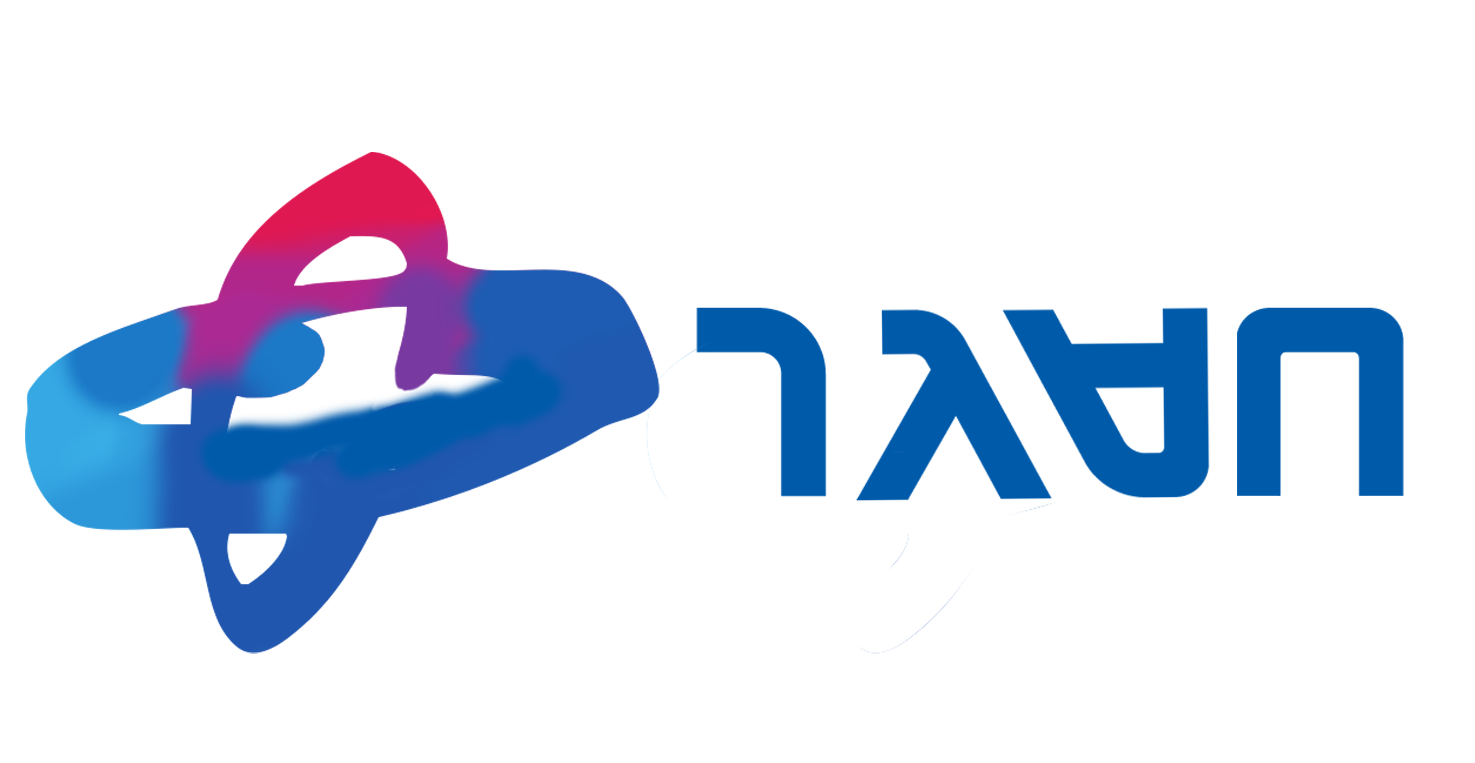
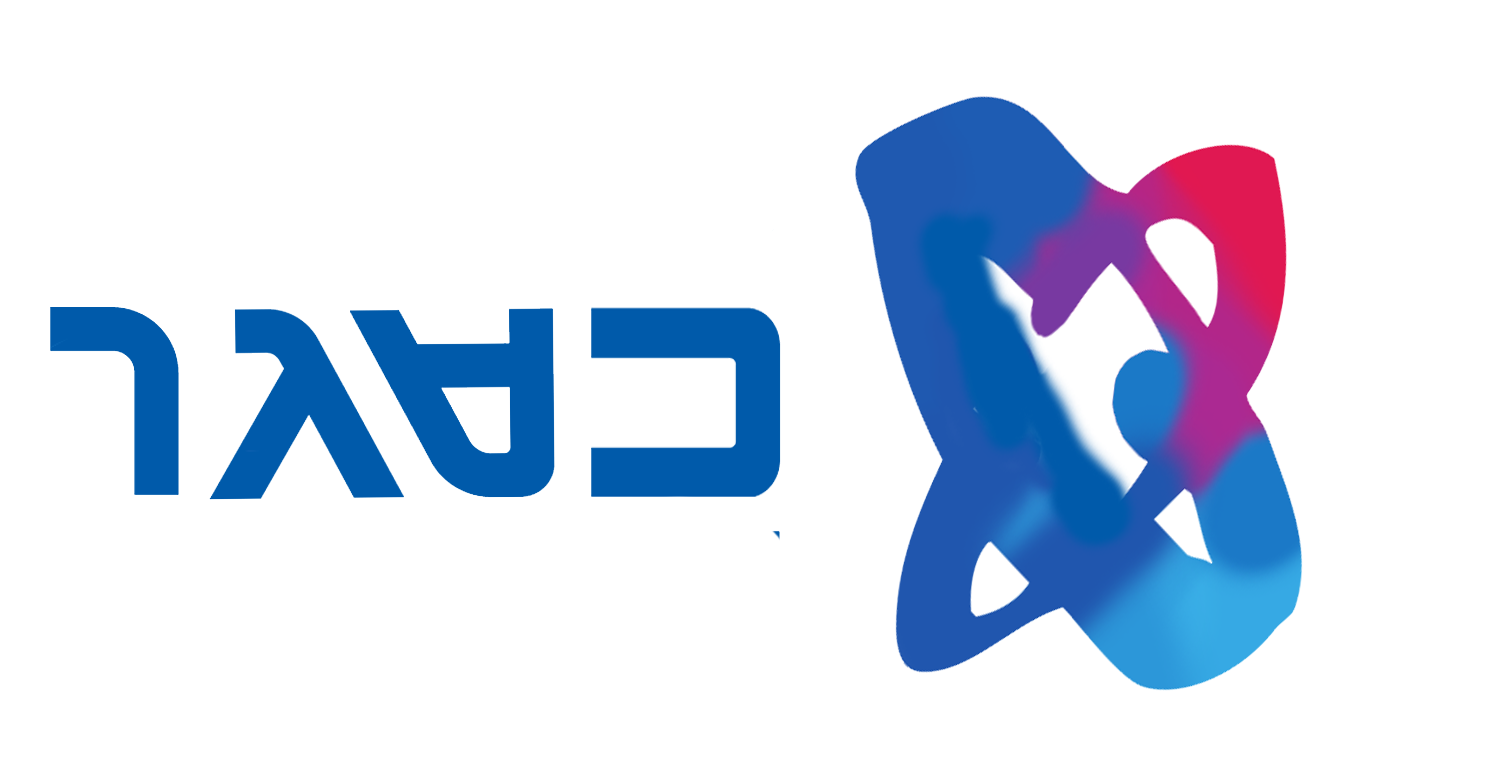
Add more animations

diff --git a/js/page/components/togglers/imageTransitioning.js b/js/page/components/togglers/imageTransitioning.js
@@ -2,12 +2,12 @@
 var _iterator = 0;
 const _imageSet = {};
 
-function showNextImageOf(image, imageId) {
-    if (_imageSet[imageId]?.length) {
-        if (++_iterator >= _imageSet[imageId].length)
+function showNextImageOf(image, imageSelector) {
+    if (_imageSet[imageSelector]?.length) {
+        if (++_iterator >= _imageSet[imageSelector].length)
             _iterator = 0;
 
-        image.src = `${(_imageSet[imageId])[_iterator]}`;
+        image.src = `${(_imageSet[imageSelector])[_iterator]}`;
     }
 }
 
@@ -15,10 +15,10 @@ function delay(ms) {
     return new Promise(resolve => setTimeout(resolve, ms));
 }
 
-export async function useImageTransition(imageId, imageNameArray = [], addedDelay, shouldReverse = true)
+export async function useImageTransition(imageSelector, imageNameArray = [], addedDelay, shouldReverse = true)
 {
-    _imageSet[imageId] = [...(imageNameArray ?? [])];
-    let image = document.getElementById(imageId);
+    _imageSet[imageSelector] = [...(imageNameArray ?? [])];
+    let image = document.querySelector(imageSelector);
     
     // Animation timing constants
     const TRANSITION_DURATION = 1500; // 0.3 seconds
@@ -28,7 +28,7 @@ export async function useImageTransition(imageId, imageNameArray = [], addedDela
     // Set transition properties
     image.style.transition = `all ${TRANSITION_DURATION}ms ease`;
     image.addEventListener('click', () => { 
-        showNextImageOf(image, imageId);
+        showNextImageOf(image, imageSelector);
     });
     
     while (true) {
@@ -56,6 +56,6 @@ export async function useImageTransition(imageId, imageNameArray = [], addedDela
             }
         }
 
-        showNextImageOf(image, imageId);
+        showNextImageOf(image, imageSelector);
     }
 }

diff --git a/js/page/enumerations/renderIndex.js b/js/page/enumerations/renderIndex.js
@@ -15,7 +15,7 @@ export function renderIndex()
         'education-lnk', 'tg-link', 'go-win-yourself', 'lnk-a-jobs', 'nav-rasp-lnk', 'news-lnk-rasp'
     ] );
     useToggleButton();
-    useImageTransition('central-big-image', [
+    useImageTransition('#central-big-image', [
         './img/slide-out/slide-out1.png', './img/slide-out/slide-out-2.jpg', './img/slide-out/slide-out-2-1.jpg',
         './img/slide-out/slide-out-3.jpg', './img/slide-out/slide-out-4.jpg', './img/slide-out/slide-out-5.jpg'], 0, true);
     useLanguageSwitchersOn('.language-dropdown__item');
@@ -30,10 +30,10 @@ export function renderIndex()
     useModalWithImageOn('.nav-lng-korean', './img/rofls/kim-chen-un.webp', 900);
     useModalWithImageOn('.nav-lng-japan', './img/rofls/kojima.jpg', 900);
     useModalWithImageOn('.nav-lng-china', './img/rofls/lgd-team.jpg', 900);
-    useImageTransition('logo-main-img', [
-        './img/paug.jpg', './img/paug2.png', './img/paug3.png',
+    useImageTransition('#logo-right-img', [
+        './img/gayshit-right.jpg', './img/paug2.png', './img/paug3.png',
         './img/paug4.png', './img/paug5.png', './img/paug1.png'], 3000, false);
-    useImageTransition('priority-img', null, 0, true);
+    useImageTransition('#priority-img', null, 0, true);
     useNavigationLnkRemapping();
 
     useModalWithContentOn('.lnk-a-jobs', '<p class="text-centered">Эй парень, в приемку не хочешь устроиться?</p><img class="modal-content__image" src="/img/content/application-comission.jpg"/>')

diff --git a/index.html b/index.html
@@ -41,7 +41,8 @@
         <div class="header-container">
             <div class="university-branding">
                 <div class="logo header-item">
-                    <img class="logo-img" id="logo-main-img" src="/img/paug.jpg"/>
+                    <img class="logo-img rotation__10-secs__360-degrees" id="logo-left-img" src="/img/gayshit-left.png"/>
+                    <img class="logo-img" id="logo-right-img" src="/img/gayshit-right.jpg"/>
                 </div>
                 <a href="#"><img class="logo-img header-item" id="priority-img" src="/img/priority.png"/></div></a>
             </div>

diff --git a/rasp/index.html b/rasp/index.html
@@ -12,6 +12,7 @@
         <div class="rasp-header-first-section">
             <div class="rasp-header-first-section__container">
                 <div class="logo header-item">
+                    <img class="logo-img rotation__10-secs__360-degrees" id="logo-left-img" src="/img/gayshit-left.png"/>
                     <a class="rasp-logo-a" href="/"><img class="logo-img" id="logo-main-img" src="/img/content/rasp/logo.jpg"/></a>
                 </div>
                 <nav class="header-first-section__navbar">

diff --git a/css/modules/animations/rotation.css b/css/modules/animations/rotation.css
@@ -1,0 +1,12 @@
+.rotation__10-secs__360-degrees {
+  animation: rotate360 10s linear infinite;
+}
+
+@keyframes rotate360 {
+  from {
+    transform: rotate(0deg);
+  }
+  to {
+    transform: rotate(360deg);
+  }
+}

diff --git a/css/index.css b/css/index.css
@@ -25,7 +25,6 @@ body {
 .logo {
     width: 60px;
     height: 58px;
-    background-color: #ffcc00;
     border-radius: 50%;
     margin-right: 15px;
     display: flex;

diff --git a/css/modules/index.css b/css/modules/index.css
@@ -1,1 +1,2 @@
 @import url('side-navs/index.css');
+@import url('animations/index.css');

diff --git a/css/modules/animations/index.css b/css/modules/animations/index.css
@@ -1,0 +1,1 @@
+@import url('rotation.css');
